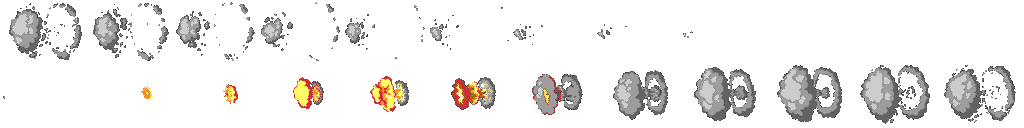
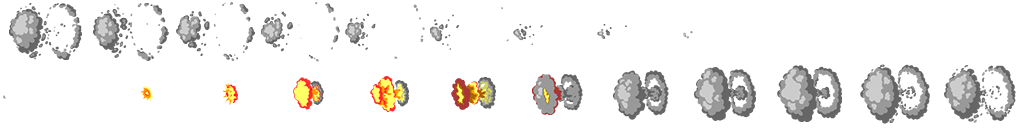
(Toby) Nuke: Reimports with lit color.

diff --git a/index.html b/index.html
@@ -2,6 +2,12 @@
 <center><img src=screenshot.png></center>
 <pre>
 <br>
+Ludum Dare 45 (Oct 2019)
+<ul>
+<li>Play <a href="http://finegamedesign.com/cappiesvscommies/ld45/webgl/index.html">Web GL</a>
+<li>Play <a href="http://finegamedesign.com/cappiesvscommies/ld45/cappiesvscommies.apk">Android</a>
+</ul>
+Ludum Dare 43 (Dec 2018)
 <ul>
 <li>Play <a href="http://finegamedesign.com/cappiesvscommies/webgl/index.html">Web GL</a>
 <li>Play <a href="http://finegamedesign.com/cappiesvscommies/cappiesvscommies.apk">Android</a>
